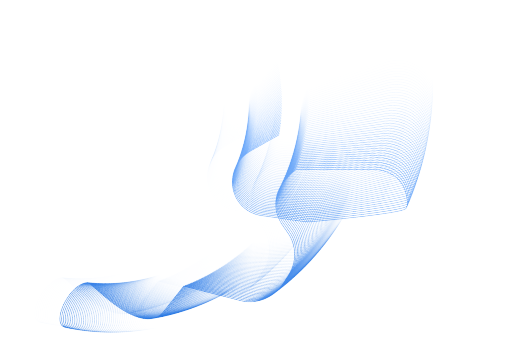
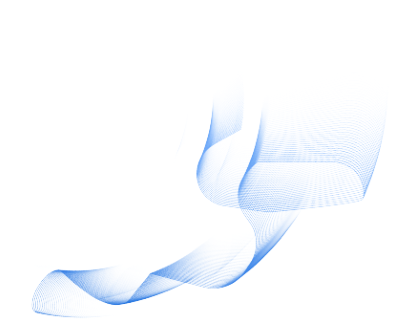
Header feito

Changed region(s): [[0.06, 0.3067, 0.96, 0.9816]]

diff --git a/css/style.css b/css/style.css
@@ -20,17 +20,19 @@ nav{
     background: url("../img/background_home.png");
     background-color: #000916;
     background-size: cover;
+    width: 100%;
+    height: 585px;
 }
 .content{
     padding-top: 72px;
-    margin-left: 5%;
+    margin: 0 5%;
 }
 .title{
     font-family: "Raleway", sans-serif;
     font-weight: 700;
     color: #fff;
-    width: 50%;
-    font-size: 40vh;
+    font-size: 5vh;
+    width: 100%;
 }
 .blue{
     color: #3B93FF;
@@ -38,9 +40,9 @@ nav{
     font-weight: 700;
 }
 button{
-    height:47px;
-    width: 16vw;
-    background: linear-gradient(312deg, rgba(35,116,225,1) 0%, rgba(206,227,255,1) 100%);
+    height:34px;
+    width: 40vw;
+    background: linear-gradient(352deg, rgba(35,116,225,1) 0%, rgba(206,227,255,1) 100%);
     color:#050835 ; 
     font-size: 16px; 
     border: none;
@@ -49,31 +51,76 @@ button{
     font-family: "Raleway", sans-serif;
     font-weight: 700;
 }
-
-@media only screen and (min-width: 601px) {
-    .title{
-        width: 50%;
-        font-size: 4vh;
-    }
+.w{
+    position: absolute;
+    display: flex;
+    justify-content: start;
+    width: 100%;
+    top: 30%;
 }
-
+.wave {
+    width: 500px;
+    background-image: url("../img/waves-cllr.png");
+    background-repeat: no-repeat;
+    height: 320px;
+}
 @media only screen and (min-width: 1025px) {
-    .wave{
+    .intro{  
+        height: 677px;
+        background-image: url("../img/desktop_home.png");
+    }
+    .title {
+        font-size: 6vh;
+        width: 42vw;
+    }
+    .w{
+        position: absolute;
+        display: flex;
+        padding-right: 10%;
+        justify-content: end;
+        width: 100%;
+        top: 20px;
+    }
+    .wave {
+        width: 1124px;
         background-image: url("../img/waves.png");
         background-repeat: no-repeat;
-        position: relative;
-        margin-top: -400px;
-        margin-left: 22%;
-        height: 680px;
-        width: auto;
+        height: 677px;
     }
-    .title{
-        font-size: 6vh;
-        width: 40vw;
-    }
-    .content{
+    
+    .content {
         padding-top: 160px;
         margin-left: 15%;
     }
-    
-} 
+    button{
+        height:47px;
+        width: 15%;
+    }
+}
+@media only screen and (min-width: 688px) and (max-width: 1025px) {
+    .intro{
+        height: 400px;
+        background-image: url("../img/desktop_home.png");
+    }
+    .title {
+        font-size:300%;
+        width: 60%;
+    }
+    button{
+        height:47px;
+        width: 160px;
+    }
+    .w{
+        position: absolute;
+        display: flex;
+        justify-content: end;
+        width: 100%;
+        top: 60px;
+    }
+    .wave {
+        width: 500px;
+        background-image: url("../img/waves-cllr.png");
+        background-repeat: no-repeat;
+        height: 400px;
+    }
+}

diff --git a/index.html b/index.html
@@ -4,6 +4,7 @@
     <meta charset="UTF-8">
     <title>CypherWave</title>
     <link href="css/style.css" rel="stylesheet">
+    <meta name="viewport" content="width=device-width, initial-scale=1.0">
 </head>
 <body>
     <nav>
@@ -18,8 +19,8 @@
                 </button>
             </div>
         </div>
+        <div class="w"><div class="wave"> </div></div>
         
-        <div class="wave"> </div>
     </section>
     <section>
 
